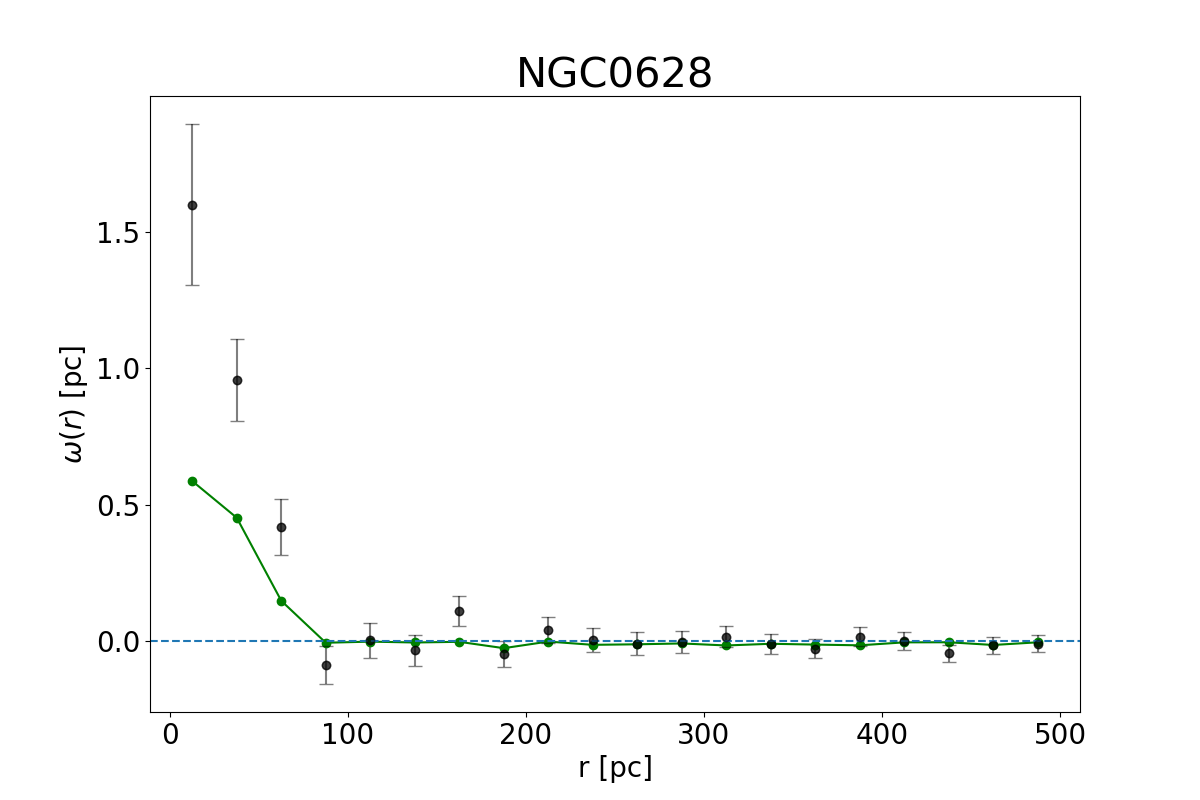
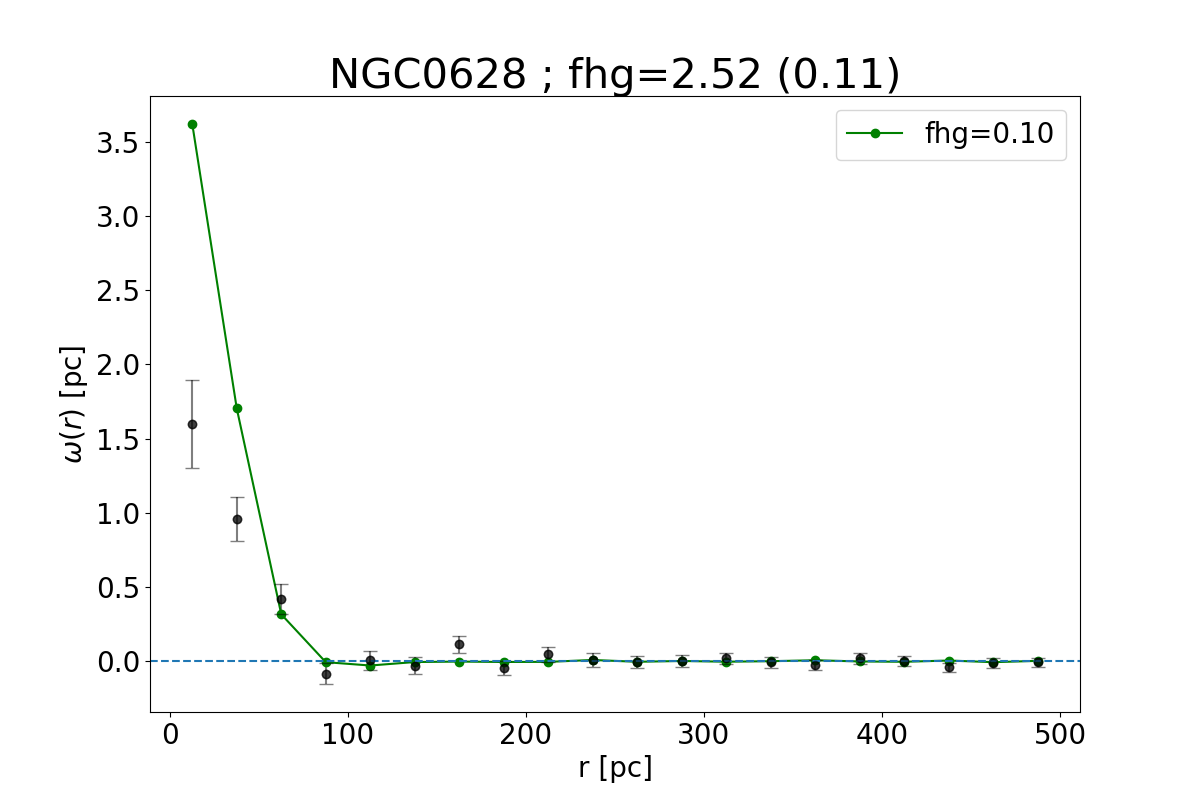
fixed best fit plot in fitmodel

diff --git a/fitmodel.py b/fitmodel.py
@@ -158,6 +158,13 @@ ax.set_xlabel('r [pc]', fontsize=20)
 ax.set_ylabel(r'$\omega(r)$ [pc]', fontsize=20)
 ax.set_title(galaxy+" ; fhg="+"{:.2f}".format(fhgobs)+" ("+"{:.2f}".format(efhgobs)+")", fontsize=30)
 ax.tick_params(labelsize=20)
+ax.plot([0], [0], label="l="+"{:.2f}".format(pbest[0]))
+ax.plot([0], [0], label="rc="+"{:.2f}".format(pbest[1]))
+ax.plot([0], [0], label="tc="+"{:.2f}".format(pbest[2]))
+ax.plot([0], [0], label="ts="+"{:.2f}".format(pbest[3]))
+ax.plot([0], [0], label="tfb="+"{:.2f}".format(pbest[4]))
+ax.plot([0], [0], label="Ng="+"{:.2f}".format(pbest[5]))
+ax.plot([0], [0], label="voff="+"{:.2f}".format(pbest[6]))
 ax.legend(fontsize=20)
 plt.savefig('./plots/'+galaxy+'_corr_model.png')
 #plt.show()
